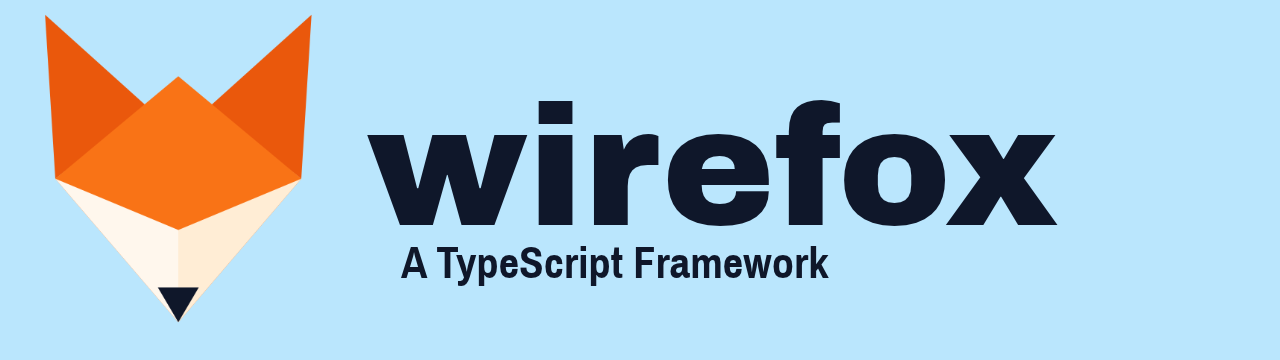
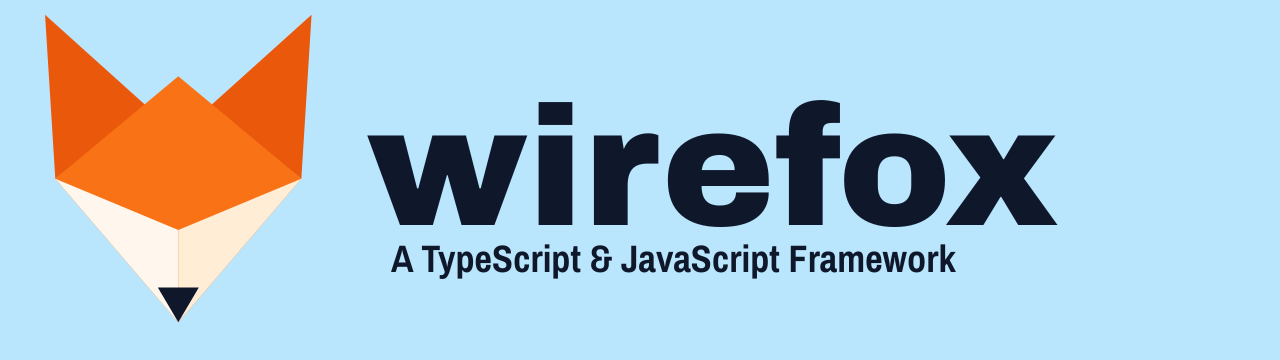
add JS runtime validation and lifecycle hooks for v0.2.0-beta.0

diff --git a/src/agent.ts b/src/agent.ts
@@ -1,6 +1,22 @@
 import type { AgentConfig, AgentResult, Message, Tool } from './types.js';
 
 export function createAgent(config: AgentConfig) {
+  if (!config || typeof config !== 'object') {
+    throw new TypeError('createAgent requires a configuration object.');
+  }
+  if (!config.model || typeof config.model.generate !== 'function') {
+    throw new TypeError('createAgent requires a valid "model" adapter with a generate() method.');
+  }
+  if (config.maxSteps !== undefined && (typeof config.maxSteps !== 'number' || config.maxSteps < 1)) {
+    throw new TypeError('"maxSteps" must be a positive number.');
+  }
+  if (config.onStep !== undefined && typeof config.onStep !== 'function') {
+    throw new TypeError('"onStep" must be a function.');
+  }
+  if (config.onToolCall !== undefined && typeof config.onToolCall !== 'function') {
+    throw new TypeError('"onToolCall" must be a function.');
+  }
+
   const maxSteps = config.maxSteps ?? 10;
   const toolMap = new Map<string, Tool<any, any>>();
 
@@ -15,6 +31,10 @@ export function createAgent(config: AgentConfig) {
   }));
 
   async function run(prompt: string): Promise<AgentResult> {
+    if (typeof prompt !== 'string' || !prompt.trim()) {
+      throw new TypeError('agent.run() requires a non-empty prompt string.');
+    }
+
     const messages: Message[] = [];
 
     if (config.systemPrompt) {
@@ -45,6 +65,7 @@ export function createAgent(config: AgentConfig) {
       messages.push(assistantMessage);
 
       if (!response.toolCalls || response.toolCalls.length === 0) {
+        await config.onStep?.({ step: steps, messages: [...messages] });
         return {
           output: response.content,
           messages,
@@ -64,6 +85,22 @@ export function createAgent(config: AgentConfig) {
           continue;
         }
 
+        const validationError = validateToolArguments(tool, call.arguments);
+        if (validationError) {
+          messages.push({
+            role: 'tool',
+            toolCallId: call.id,
+            content: JSON.stringify({ error: validationError }),
+          });
+          continue;
+        }
+
+        await config.onToolCall?.({
+          id: call.id,
+          name: call.name,
+          arguments: call.arguments,
+        });
+
         try {
           const result = await tool.execute(call.arguments);
           messages.push({
@@ -80,10 +117,38 @@ export function createAgent(config: AgentConfig) {
           });
         }
       }
+
+      await config.onStep?.({ step: steps, messages: [...messages] });
     }
 
     throw new Error(`Agent exceeded maximum tool loop steps (${maxSteps}).`);
   }
 
   return { run };
+}
+
+function validateToolArguments(
+  tool: Tool,
+  args: Record<string, unknown>,
+): string | null {
+  if (!args || typeof args !== 'object' || Array.isArray(args)) {
+    return `Invalid arguments for "${tool.name}": expected an object.`;
+  }
+
+  for (const [key, schema] of Object.entries(tool.parameters)) {
+    const value = args[key];
+
+    if (value === undefined || value === null) {
+      if (schema.required !== false) {
+        return `Missing required argument "${key}" for tool "${tool.name}".`;
+      }
+      continue;
+    }
+
+    if (typeof value !== schema.type) {
+      return `Invalid type for argument "${key}" in tool "${tool.name}": expected ${schema.type}, got ${typeof value}.`;
+    }
+  }
+
+  return null;
 }

diff --git a/tests/agent.test.ts b/tests/agent.test.ts
@@ -62,6 +62,54 @@ describe('wirefox agent loop', () => {
     expect(result.messages).toHaveLength(4);
   });
 
+  it('invokes onToolCall and onStep lifecycle hooks in order', async () => {
+    const events: string[] = [];
+
+    const echoTool = defineTool({
+      name: 'echo',
+      description: 'Echoes text',
+      parameters: {
+        text: { type: 'string', description: 'Text to echo' },
+      },
+      execute: ({ text }) => {
+        events.push(`execute:${text}`);
+        return text;
+      },
+    });
+
+    const mockModel: ModelAdapter = {
+      generate: vi
+        .fn()
+        .mockResolvedValueOnce({
+          content: '',
+          toolCalls: [{ id: 'call_1', name: 'echo', arguments: { text: 'hello' } }],
+        })
+        .mockResolvedValueOnce({
+          content: 'Done!',
+        }),
+    };
+
+    const fox = createAgent({
+      model: mockModel,
+      tools: [echoTool],
+      onToolCall: ({ name, arguments: args }) => {
+        events.push(`onToolCall:${name}:${String(args['text'])}`);
+      },
+      onStep: ({ step }) => {
+        events.push(`onStep:${step}`);
+      },
+    });
+
+    await fox.run('Test hooks');
+
+    expect(events).toEqual([
+      'onToolCall:echo:hello',
+      'execute:hello',
+      'onStep:1',
+      'onStep:2',
+    ]);
+  });
+
   it('catches tool execution errors and passes them gracefully to the model', async () => {
     const failingTool = defineTool({
       name: 'broken_tool',
@@ -92,7 +140,7 @@ describe('wirefox agent loop', () => {
     const result = await fox.run('Run broken tool');
 
     expect(result.output).toBe('Sorry, the database is currently offline.');
-    expect(result.messages[2]?.content).toContain('Database offline');
+    expect(result.messages.at(2)?.content).toContain('Database offline');
   });
 
   it('throws when the agent exceeds maxSteps', async () => {

diff --git a/src/tool.ts b/src/tool.ts
@@ -1,7 +1,38 @@
 import type { ParametersRecord, Tool } from './types.js';
 
+const VALID_PARAM_TYPES = new Set(['string', 'number', 'boolean']);
+
 export function defineTool<TParams extends ParametersRecord, TResult = unknown>(
   definition: Tool<TParams, TResult>,
 ): Tool<TParams, TResult> {
+  if (!definition || typeof definition !== 'object') {
+    throw new TypeError('defineTool requires a tool definition object.');
+  }
+  if (typeof definition.name !== 'string' || !definition.name.trim()) {
+    throw new TypeError('Tool "name" must be a non-empty string.');
+  }
+  if (typeof definition.description !== 'string' || !definition.description.trim()) {
+    throw new TypeError(`Tool "${definition.name}" must have a non-empty "description".`);
+  }
+  if (
+    !definition.parameters ||
+    typeof definition.parameters !== 'object' ||
+    Array.isArray(definition.parameters)
+  ) {
+    throw new TypeError(`Tool "${definition.name}" must have a "parameters" object.`);
+  }
+
+  for (const [key, schema] of Object.entries(definition.parameters)) {
+    if (!schema || typeof schema !== 'object' || !VALID_PARAM_TYPES.has(schema.type)) {
+      throw new TypeError(
+        `Parameter "${key}" in tool "${definition.name}" must have type "string", "number", or "boolean".`,
+      );
+    }
+  }
+
+  if (typeof definition.execute !== 'function') {
+    throw new TypeError(`Tool "${definition.name}" must provide an "execute" function.`);
+  }
+
   return definition;
 }

diff --git a/src/types.ts b/src/types.ts
@@ -60,11 +60,24 @@ export interface ModelAdapter {
   }) => Promise<ModelResponse>;
 }
 
+export interface StepEvent {
+  step: number;
+  messages: Message[];
+}
+
+export interface ToolCallEvent {
+  id: string;
+  name: string;
+  arguments: Record<string, unknown>;
+}
+
 export interface AgentConfig {
   model: ModelAdapter;
   tools?: Tool<any, any>[];
   systemPrompt?: string;
   maxSteps?: number;
+  onStep?: (event: StepEvent) => void | Promise<void>;
+  onToolCall?: (event: ToolCallEvent) => void | Promise<void>;
 }
 
 export interface AgentResult {

diff --git a/src/index.ts b/src/index.ts
@@ -12,6 +12,8 @@ export type {
   Message,
   ModelResponse,
   ModelAdapter,
+  StepEvent,
+  ToolCallEvent,
   AgentConfig,
   AgentResult,
 } from './types.js';

diff --git a/README.md b/README.md
@@ -3,9 +3,9 @@
 
   # wirefox
 
-  Zero-dependency AI agent and tool-loop micro-framework for TypeScript.
+  Zero-dependency AI agent and tool-loop micro-framework for TypeScript and JavaScript.
 
-  [![npm](https://shields.io)](https://npmjs.com/package/wirefox)
+  [![npm](https://shields.io)](https://www.npmjs.com/package/wirefox)
   [![license](https://shields.io)](./LICENSE)
 </div>
 
@@ -16,6 +16,8 @@ npm install wirefox
 ```
 
 ## Quickstart
+
+Works identically in `.ts` and plain `.js` with full runtime validation and editor autocomplete:
 
 ```typescript
 import { createAgent, defineTool, openai } from 'wirefox';
